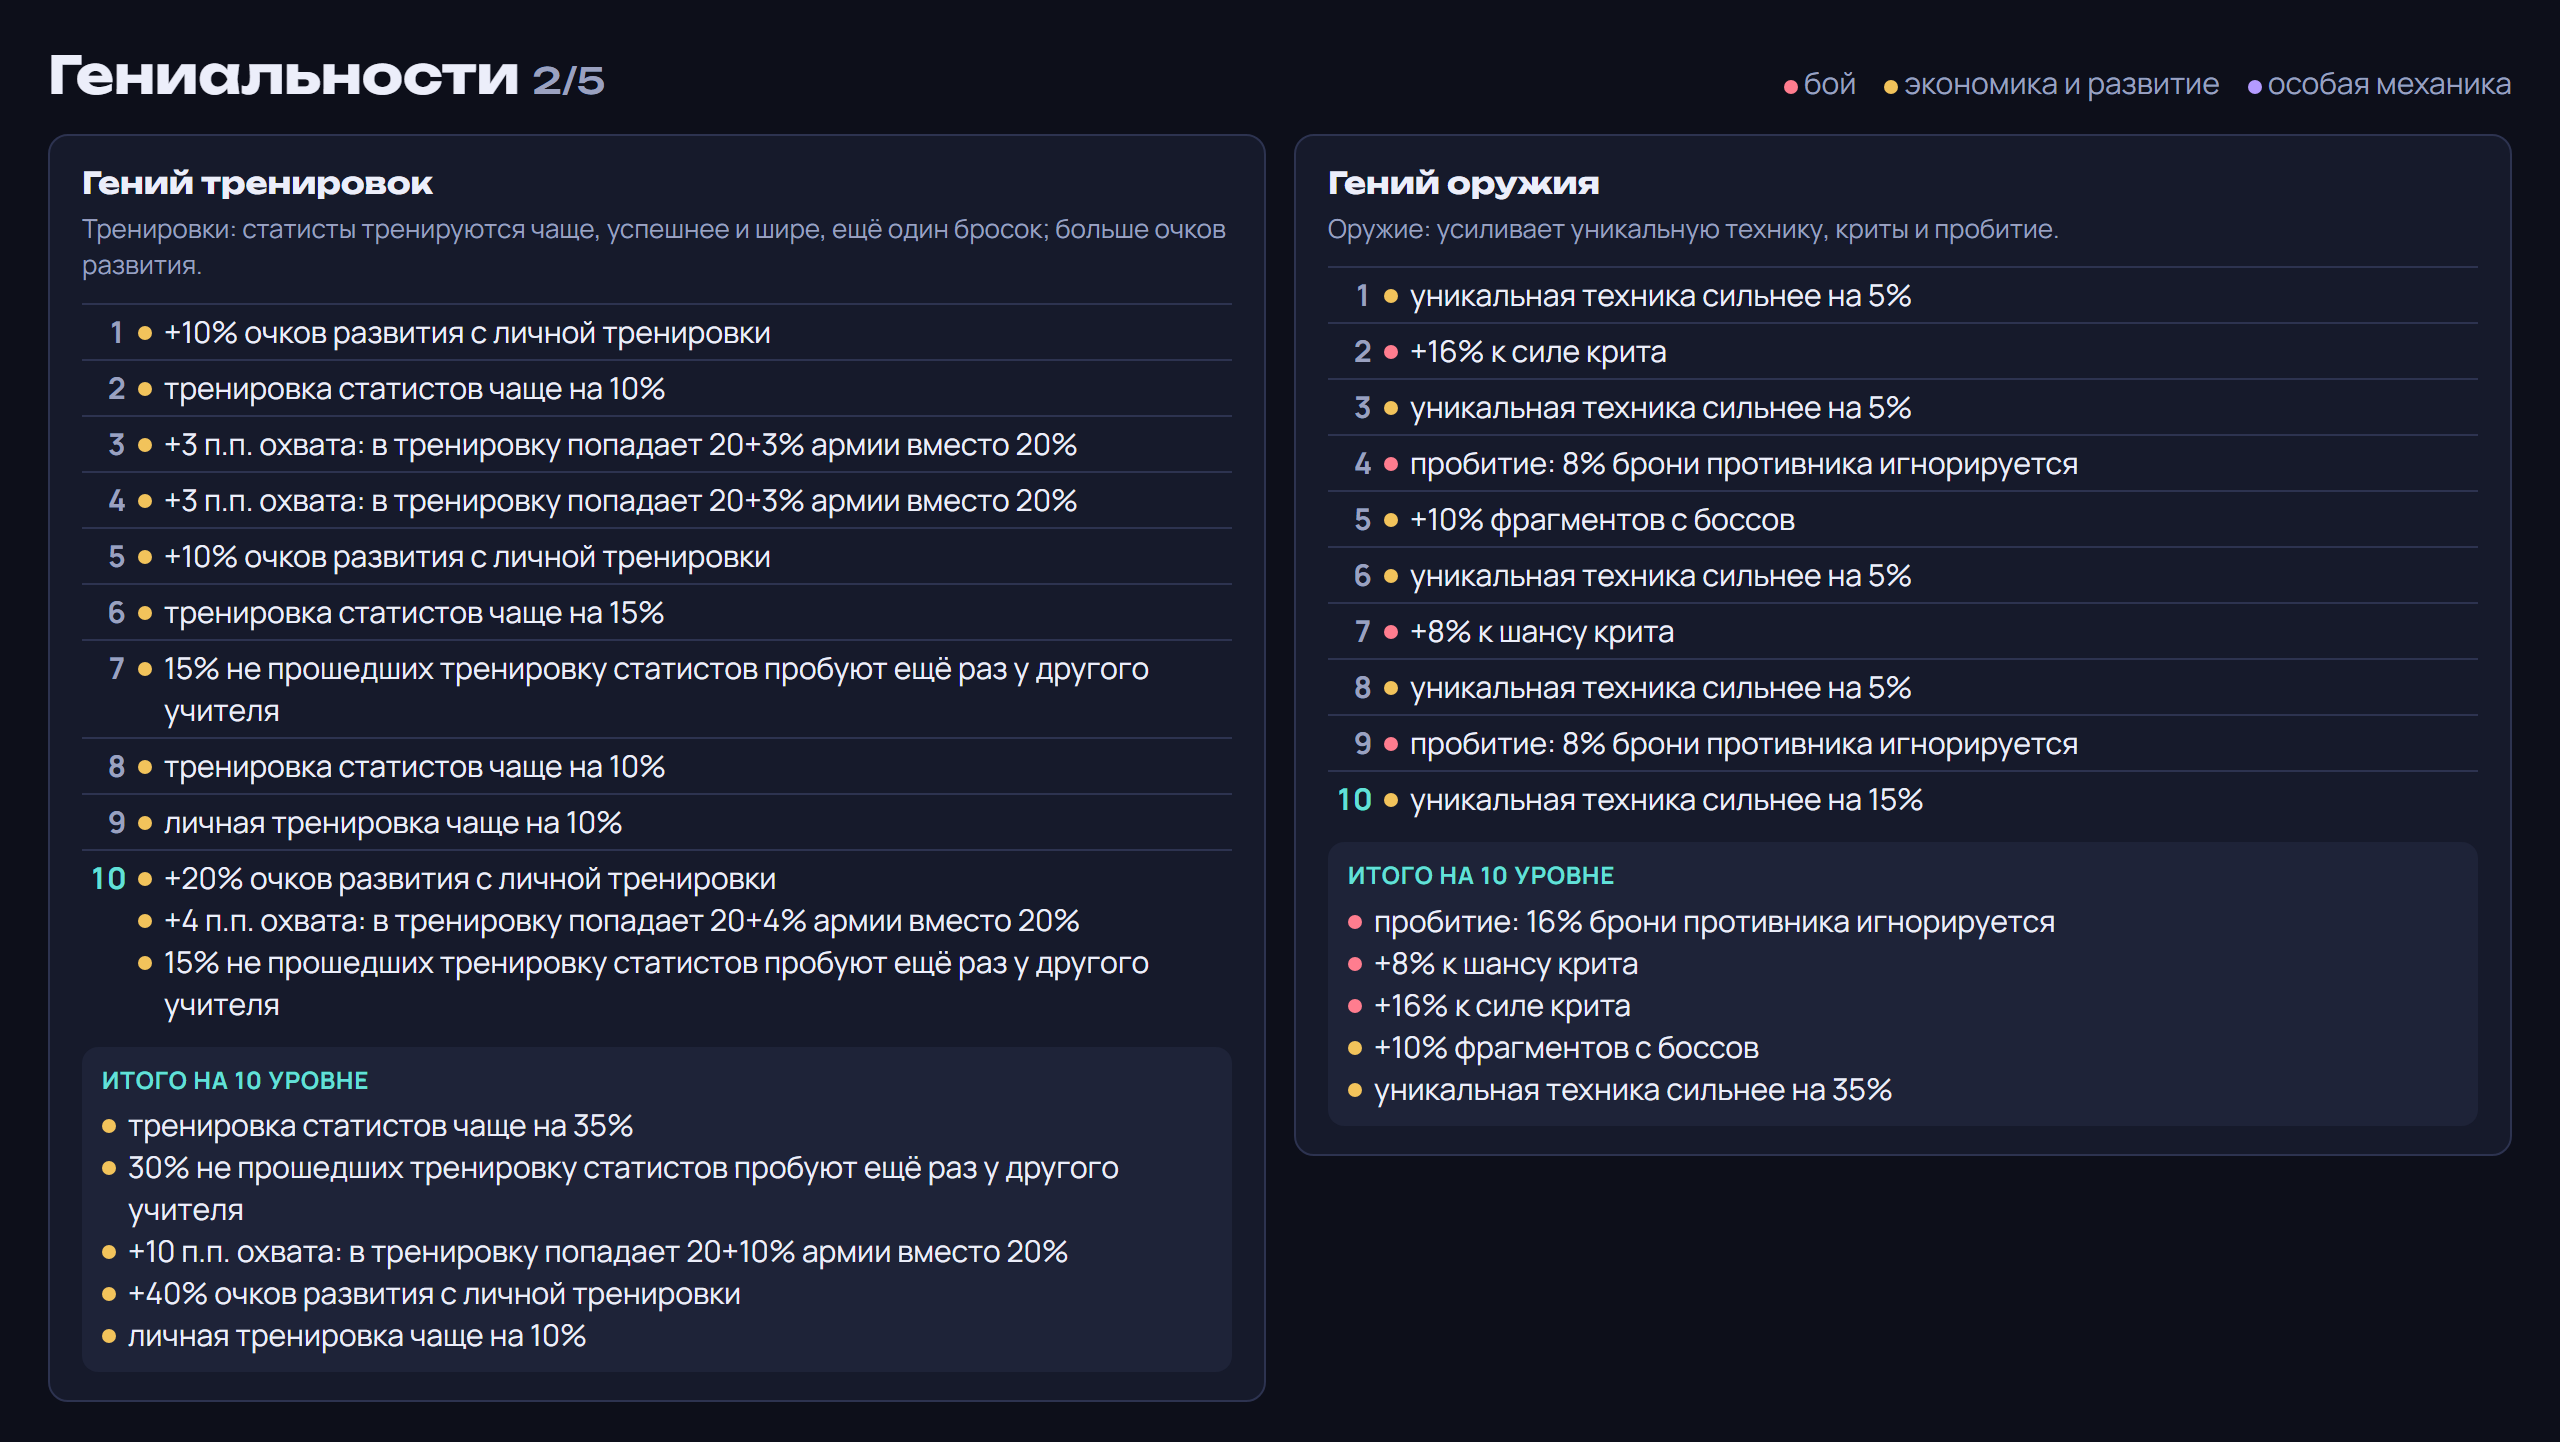
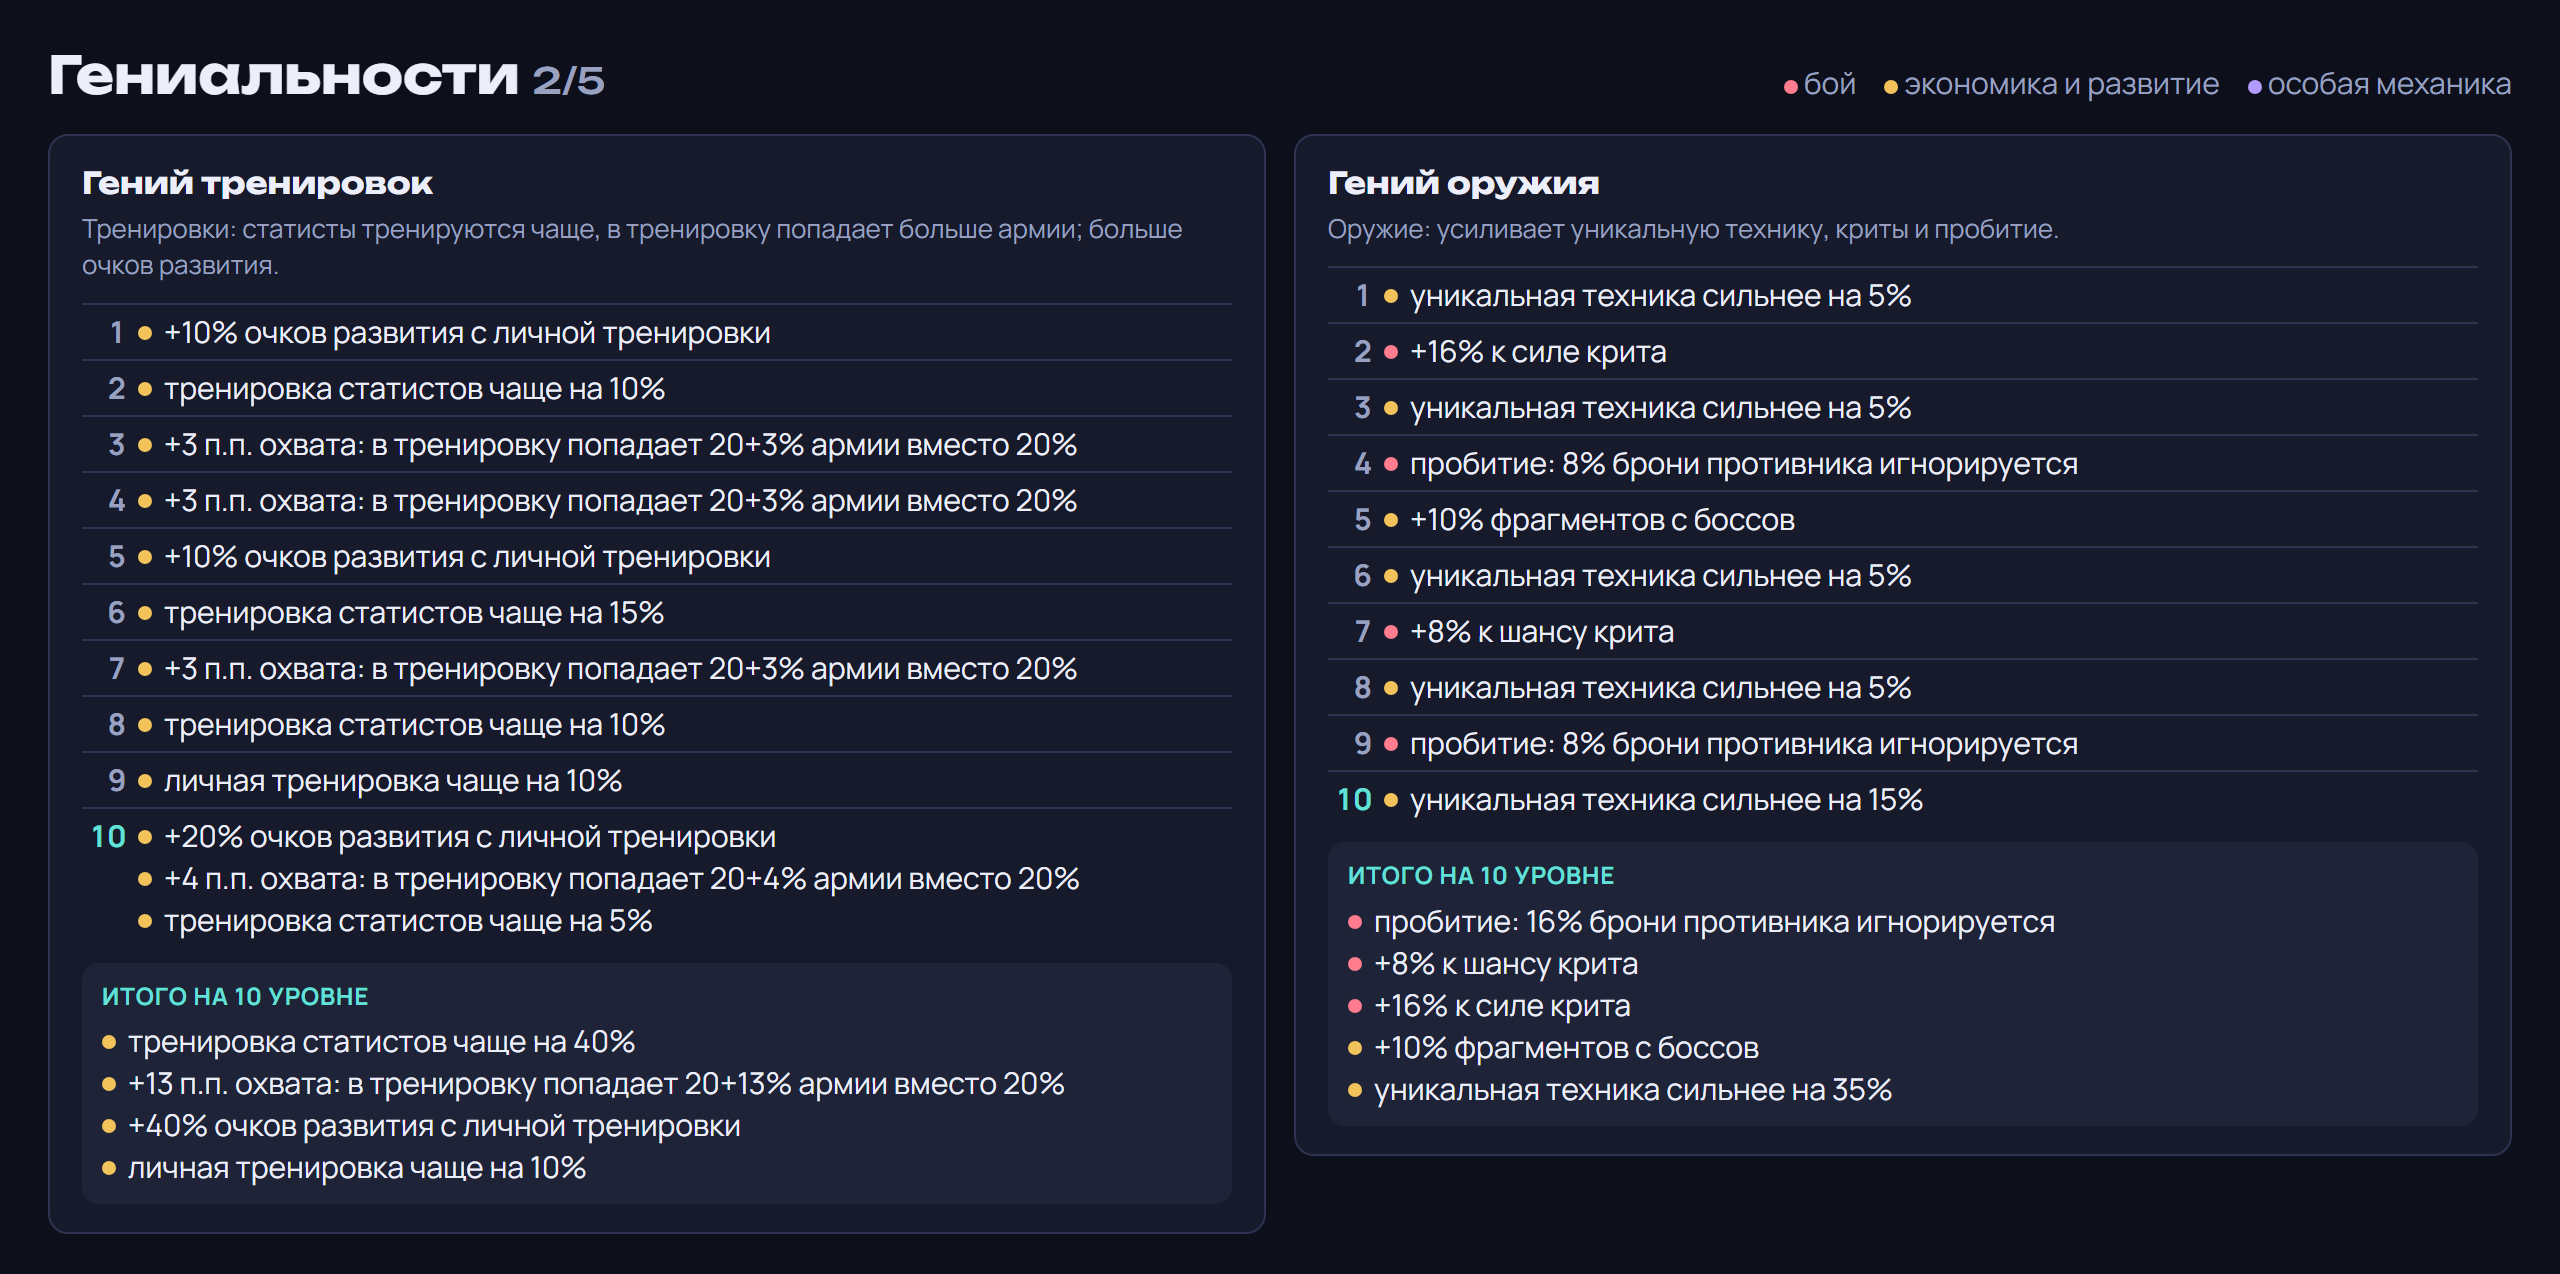
balance(training): повторный бросок убран из гения и пути тренировок — со ~100 залами этап 1 проходят все, бонус был мёртвым; вместо него охват и КД

Changed region(s): [[0.0, 0.0306, 0.4688, 0.9796], [0.5, 0.0306, 1.0, 0.8878]]

diff --git a/src/bot/config/unique_path/unique_path.py b/src/bot/config/unique_path/unique_path.py
@@ -220,15 +220,15 @@ LEVELS: dict[str, tuple[dict, ...]] = {
         # level_power (2026-11-28): после линейной тренировки путь только ускорял дорогу до капа — +8 п.п. к росту
         # мощи за уровень на 10-м уровне пути дают долгосрочно ≈×2, как вербовка и Самдак (модель роста армии).
         _e(extras_coverage=2, dev_points=0.05, level_power=0.5),
-        _e(extras_extra_roll=0.10, extras_coverage=3, level_power=0.5),
+        _e(extras_coverage=5, level_power=0.5),
         _e(extras_training_cooldown=0.10, personal_cooldown=0.05, level_power=0.5),
         _e(extras_coverage=2, dev_points=0.05, level_power=1.0),
-        _e(extras_extra_roll=0.10, extras_coverage=3, level_power=0.5),
+        _e(extras_coverage=5, level_power=0.5),
         _e(dev_points=0.15, personal_cooldown=0.05, level_power=1.0),
         _e(extras_training_cooldown=0.10, extras_coverage=4, level_power=0.5),
-        _e(extras_extra_roll=0.15, dev_points=0.10, level_power=1.0),
+        _e(extras_training_cooldown=0.05, dev_points=0.10, level_power=1.0),
         _e(extras_training_cooldown=0.05, personal_cooldown=0.10, level_power=1.0),
-        _e(extras_extra_roll=0.25, extras_coverage=8, dev_points=0.20, level_power=1.5),
+        _e(extras_coverage=10, dev_points=0.20, level_power=1.5),
     ),
     # Уклонение: уклонение выше обычного потолка и работает там, где от удара «не увернуться»;
     # уклонившиеся бьют в ответ, армия разгоняется от каждого уклонения. Шкала — за уклонения.

diff --git a/src/bot/texts/help/help.py b/src/bot/texts/help/help.py
@@ -129,7 +129,7 @@ HELP_SECTIONS: tuple[tuple[str, str, str], ...] = (
         "звёзды остаются. Поэтому сильные отряды перед тренировкой можно убрать в 📦 ячейку, а для боя "
         "достать обратно. Infinity на капе (и статист на потолке твоей фазы) больше не растёт и не "
         "тренируется: вместо него в тренировку попадает другой случайный статист.\n"
-        "<b>Кто ускоряет:</b> гений тренировок — чаще тренировки, больше охват, повторный бросок; родословная "
+        "<b>Кто ускоряет:</b> гений тренировок — чаще тренировки и больше охват; родословная "
         "<b>Самдака</b> поднимает кап уровня всем статистам (до ×2) и даёт запрещать или вручную делать переход "
         "на следующий ранг (🔒 Ранги статистов); родословная <b>Хансу</b> — 🎯 Фокус тренировки: выбранные отряды "
         "(лагерь+ранг+школа) забирают весь охват; <b>путь тренировок</b> — больше мощи за каждый уровень "

diff --git a/src/bot/config/genius/genius.py b/src/bot/config/genius/genius.py
@@ -65,7 +65,8 @@ LEVELS: dict[str, tuple[dict, ...]] = {
         _c(attack=0.06, crit_chance=0.10),
     ),
     # Гений тренировок (переработка 2026-11-28): скорость тренировок статистов + очки развития и КД личной.
-    # Без «+п.п. к шансам»: от ~90 тренажёрных залов шанс этапов и так 100% — шансы дают только залы и зелья.
+    # Без «+п.п. к шансам» и повторного броска: от ~90 тренажёрных залов шанс этапов и так 100% — оба бонуса были
+    # мёртвыми. Шансы дают только залы и зелья; ветки ускоряют через КД и охват.
     GENIUS_TRAINING: (
         _e(dev_points=0.10),
         _e(extras_training_cooldown=0.10),
@@ -73,10 +74,10 @@ LEVELS: dict[str, tuple[dict, ...]] = {
         _e(extras_coverage=3),
         _e(dev_points=0.10),
         _e(extras_training_cooldown=0.15),
-        _e(extras_extra_roll=0.15),
+        _e(extras_coverage=3),
         _e(extras_training_cooldown=0.10),
         _e(personal_cooldown=0.10),
-        _e(dev_points=0.20, extras_coverage=4, extras_extra_roll=0.15),
+        _e(dev_points=0.20, extras_coverage=4, extras_training_cooldown=0.05),
     ),
     GENIUS_WEAPONS: (
         _e(technique_power=0.05),

diff --git a/src/bot/texts/genius/genius.py b/src/bot/texts/genius/genius.py
@@ -31,7 +31,7 @@ GENIUS_NAMES: dict[str, str] = {
 GENIUS_THEMES: dict[str, str] = {
     GENIUS_BUSINESS: "Деньги: доход, дешёвые постройки, большое хранилище, меньше налога императору.",
     GENIUS_WAR: "Военное дело: атака, частые бои, вербовка сильнее, удар до боя.",
-    GENIUS_TRAINING: "Тренировки: статисты тренируются чаще, успешнее и шире, ещё один бросок; больше очков развития.",
+    GENIUS_TRAINING: "Тренировки: статисты тренируются чаще, в тренировку попадает больше армии; больше очков развития.",
     GENIUS_WEAPONS: "Оружие: усиливает уникальную технику, криты и пробитие.",
     GENIUS_MEDIA: "Известность: доход, вербовка двоих, быстрее тикеты.",
     GENIUS_HACKING: "Взлом: разведка цели вплоть до её билда, саботаж сильнее и тише.",

diff --git a/CLAUDE.md b/CLAUDE.md
@@ -3452,9 +3452,9 @@ NHCoin → статисты → бизнес, не хватило — замор
   [лагерь, ранг, школа] забирают весь обычный охват (квота = сколько попало бы без фокуса), остаток — остальной армии;
   слоты `focus_slots` 1/2/3/5 на 1/4/7/10-м, берутся из обычного билда (в автотренировке тоже). **Путь тренировок** —
   ускорения + `level_power` (+п.п. к 8% за уровень, до +8 на 10-м — долгосрочно ≈×2, как вербовка и Самдак, модель роста
-  армии). **Гений тренировок** — КД, охват, повторный бросок + очки развития/КД личной (скидка на характеристики и мастерство убраны).
-- **«+п.п. к шансам» убраны из веток** (гений, путь, КПД пути → теперь охват): от ~90 тренажёрных залов шанс всех этапов
-  и так 100%, бонус был мёртвым. Шансы — только залы, здания клана, зелье тренировки, навык «Наставник».
+  армии). **Гений тренировок** — КД и охват + очки развития/КД личной (скидка на характеристики и мастерство убраны).
+- **«+п.п. к шансам» и повторный бросок убраны из веток** (гений, путь, КПД пути → теперь охват и КД): от ~90 тренажёрных
+  залов шанс всех этапов и так 100%, оба бонуса были мёртвыми. Шансы — только залы, здания клана, зелье тренировки, навык «Наставник».
 - Экраны: бот — «🎯 Фокус тренировки» рядом с «🔒 Ранги статистов», ранги показывают «кап обычный → с Самдаком»;
   Mini App — панель «ФОКУС ТРЕНИРОВКИ», `GET /api/training/focus`, `POST /api/training/focus/toggle`; `MINI_APP_ASSET_VERSION = 32`.
   `/help`, описания веток, подписи эффектов, листы гайда (родословные, пути, гении) пересобраны.
